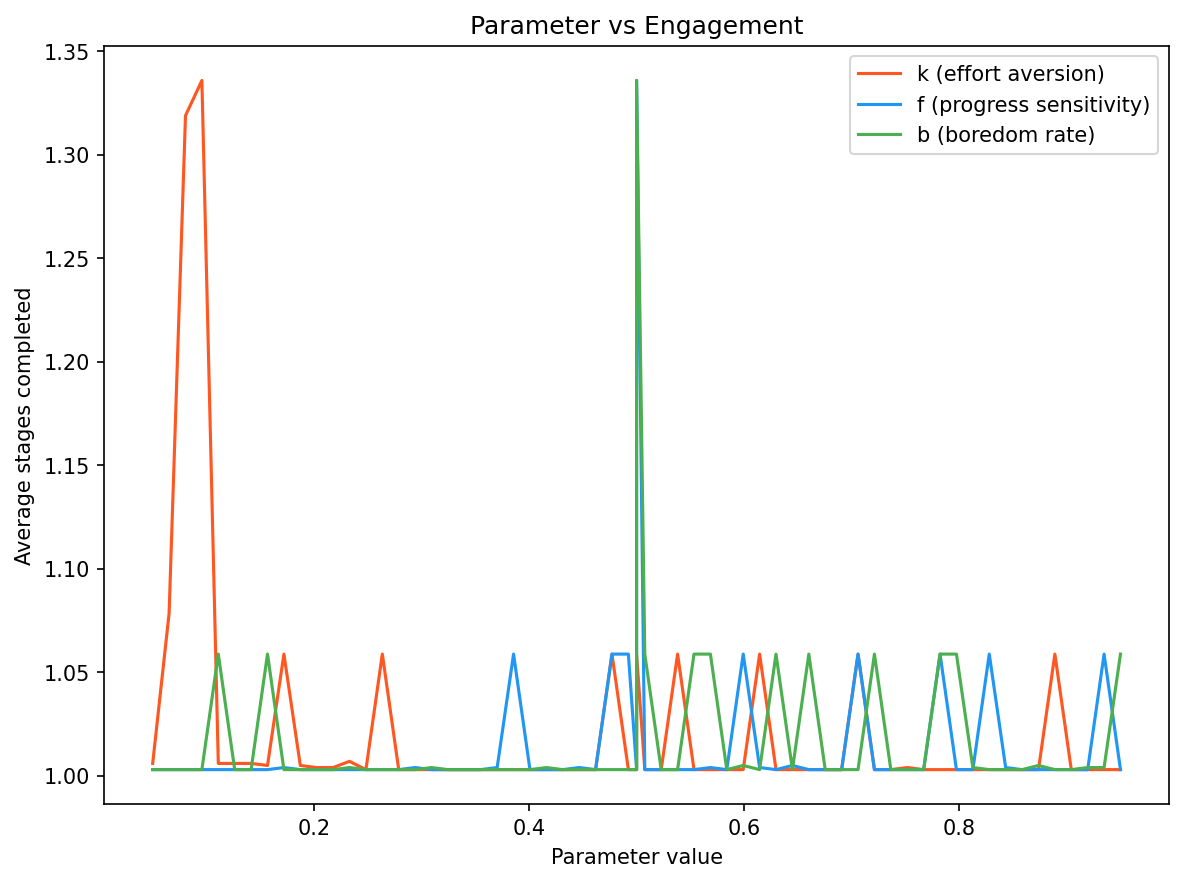
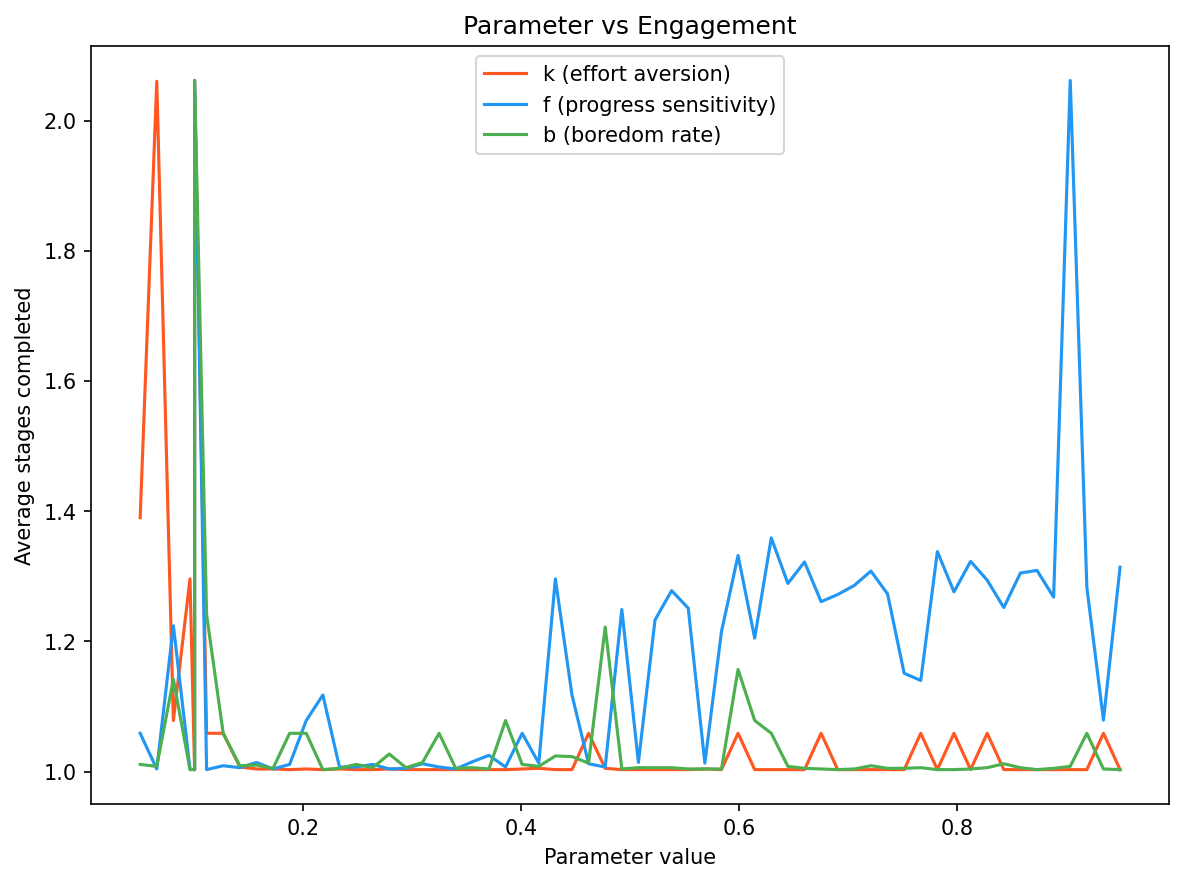
Fix effort cost denominator floor to prevent cold-start disengagement
Previous floor of 0.05 caused effort_cost to overwhelm engagement signal
at initialization (skill=0.1, V=~0 → denom=0.1 → cost=0.4 vs signal=~0).
New floor of f_val encodes that perceived task competence scales with
progress sensitivity: high-f agents extract more signal and face lower
relative effort cost at baseline.

New image is plot that led to changes. Next commit will have these new changes plotted.

diff --git a/temporal_difference_model.py b/temporal_difference_model.py
@@ -55,7 +55,7 @@ def get_sigma(state: ModelState, base_sigma=.02, scaling_factor=.3):
 def engagement_score(delta, v, f_val, k_val, b_val, state: ModelState, part = False):
     baseline = 0.5 * math.exp(-0.005 * state.t)
     signal = f_val * abs(delta)
-    denom = max(0.05, abs(v) + state.skill)
+    denom = max(f_val, abs(v) + state.skill)
     effort_cost = k_val * ((state.t_since_eng) + diff * stage_amt) / denom 
     boredom_cost = b_val * max(0, state.t_since_eng - signal * 10) * 0.01
     
@@ -149,15 +149,17 @@ def value_of_stage(state: ModelState, s, pers_param):
     state.skill += learning_gain / stage_amt
     return delta, stage_engagement, engaged_observation
 
-def simulate(state, pers_param):
+def simulate(state: ModelState, pers_param):
     tot_epi_engagement = 0
     stages_completed = 0
+
     for s in range(stage_amt):
         state.rpe[s], tot_stage_engagement, engaged = value_of_stage(state, s, pers_param)
         tot_epi_engagement += tot_stage_engagement
         stages_completed += 1
         if not engaged and state.t > 1:
             #print(f"quit after {stages_completed} stages with rpe of {state.rpe[s]}")
+            state.t_since_eng = 0
             break
         else:
             pass
@@ -186,20 +188,22 @@ def train(state: ModelState, pers_param, debug):
         else:
             low_rpe_streak = 0
 
-        if low_rpe_streak >= 10 and state.t > 50:
+        average_v = sum(V(state.theta, s) for s in range(stage_amt))/stage_amt
+        
+        if low_rpe_streak >= 10 and average_v > 0.1:
             if debug:
                 print(f"trained after {state.t} trials")
                 print("V:", [round(V(state.theta, s), 3) for s in range(stage_amt)])
                 print("RPE:", [round(state.rpe[s], 3) for s in range(stage_amt)])
             return 
 
-        if state.t >= 1000 and not engaged:
+        if state.t >= 2000:
             if debug:
                 print(f"stopped after {state.t} trials")
                 print("V:", [round(V(state.theta, s), 3) for s in range(stage_amt)])
                 print("RPE:", [round(state.rpe[s], 3) for s in range(stage_amt)])
             return 
-
+    
         state.t += 1
         state.t_since_eng += 1
         
@@ -229,20 +233,20 @@ def test_train(true_f, true_k, true_b, debug = False):
         print("Estimated k:", sum(w * p['k'] for w, p in zip(state.weights, state.particles)))
         print("Estimated b:", sum(w * p['b'] for w, p in zip(state.weights, state.particles)))
         print(f"Average stages completed per episode: {avg_stages:.2f}")
-        print("True params:", fixed_params)
+        print("True params:", fixed)
     
     return {'true_f': true_f, 'true_k': true_k, 'true_b': true_b, 'avg_stages': avg_stages}
 
 def collect_results(n=60):
     results = []
     sweep = np.linspace(0.05, 0.95, n)
-    fixed = 0.5 
+    fixed = 0.1 
 
     for val in sweep:
         results.append(test_train(val, fixed, fixed))
         results.append(test_train(fixed, val, fixed)) 
         results.append(test_train(fixed, fixed, val))
-        print(f"completed {len(results)}/{n*3}")
+        print(f"completed {int(len(results))/3}/{n}")
 
     return results
 
@@ -272,4 +276,8 @@ def plot_results(results):
     plt.savefig('engagement_by_params.png', dpi=150, bbox_inches='tight')
     plt.show()
 
-plot_results(collect_results(60))
+#plot_results(collect_results(60))
+#test_train(true_f=0.9, true_k=.1, true_b=.1, debug=True)
+test_train(true_f=0.9, true_k=0.1, true_b=0.1, debug=True)
+test_train(true_f=0.9, true_k=0.7, true_b=0.1, debug=True)  
+test_train(true_f=0.1, true_k=0.7, true_b=0.1, debug=True)

diff --git a/README.md b/README.md
@@ -7,3 +7,5 @@ Reward is only available at the terminal stage. Value propagates backwards throu
 RPE drives the engagement signal. How motivated a person is to continue at any stage is proportional to how surprising the current outcome is relative to their expectation, scaled by their sensitivity parameter f. A fully predicted outcome has no RPE and therfore no motivation to continue.
 Three latent parameters govern engagement behavior: f, sensitivity to learning progress; k, effort aversion; b, boredom rate. These cannot be directly observed. The model infers them using the Bayesian particle inference.
 Engagement and disengagement are the only observable signals available to the model. The true parameters are never revealed. Everything the model knows about the person comes from whether they continued or stopped.
+
+Fixed an issue where the floor in the denominator for effort cost equation was too low. At t=1 the denominator was .1 since it mirrors skill (v = 0 at until 4 stages) so the effort cost was difficulty * stage amount / denom (.1 * 4 / .1) = .4 overwhelming the engagment factor before learning could occur. Raising the floor to f_val makes sense as the denom lowers effort cost so higher sensitvity to learning progress. The denominator represents perceived task competence where rogress sensitivity f scales how much RPE signal a person extracts from their experience 
